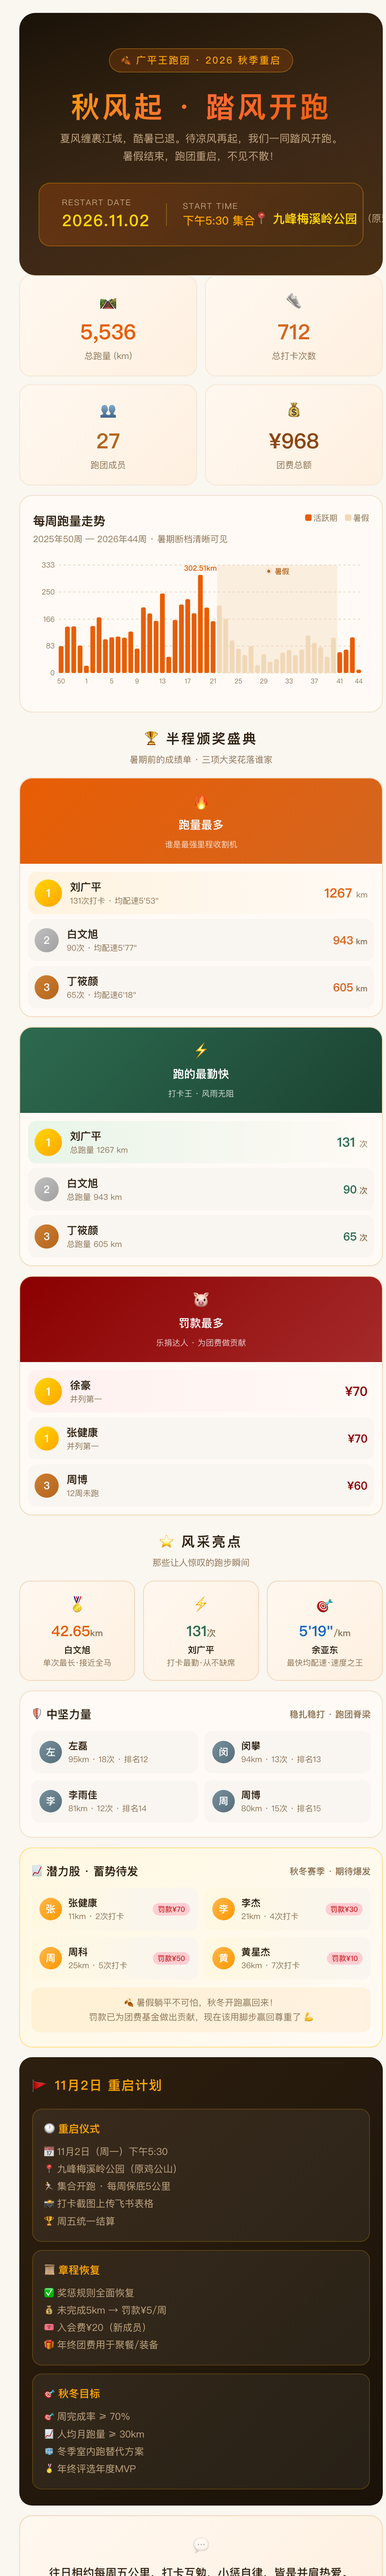
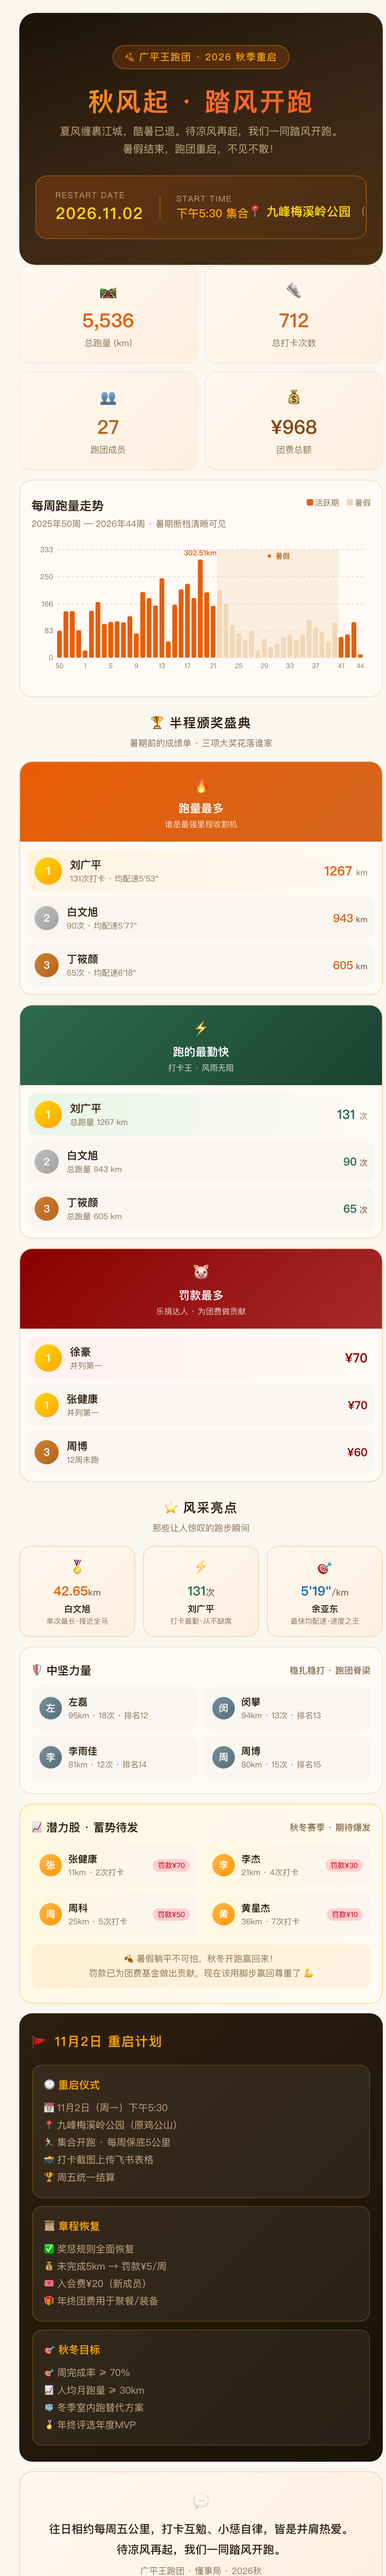
重构响应式布局：窄屏自动堆叠，防溢出防挤压

Changed region(s): [[0.0312, 0.0, 1.0, 1.0], [0.75, 0.5938, 0.9375, 0.7188], [0.4062, 0.5938, 0.4375, 0.625]]

diff --git a/index.html b/index.html
@@ -7,44 +7,44 @@
 <title>广平王跑团 · 秋风起 踏风开跑</title>
 <style>
 *{margin:0;padding:0;box-sizing:border-box;-webkit-box-sizing:border-box;}
-body{font-family:-apple-system,'PingFang SC','Noto Sans SC','Segoe UI',sans-serif;background:#faf6f0;color:#2d1f0f;line-height:1.5;-webkit-font-smoothing:antialiased;}
+body{font-family:-apple-system,'PingFang SC','Noto Sans SC','Segoe UI',sans-serif;background:#faf6f0;color:#2d1f0f;line-height:1.5;-webkit-font-smoothing:antialiased;overflow-x:hidden;}
 .container{max-width:480px;margin:0 auto;padding:16px 14px 32px;}
 
 /* Hero */
-.hero{position:relative;overflow:hidden;border-radius:20px;padding:44px 24px 36px;text-align:center;background:linear-gradient(160deg,#1a1208 0%,#2d1f0f 30%,#3d2817 60%,#4a2f12 100%);color:#fff8f0;}
-.hero-badge{display:inline-block;padding:5px 14px;border-radius:999px;background:rgba(232,93,4,0.2);border:1px solid rgba(255,182,39,0.3);margin-bottom:20px;font-size:12px;letter-spacing:1.5px;color:#FAA307;font-weight:500;}
-.hero h1{font-size:36px;font-weight:700;margin:0 0 6px;letter-spacing:3px;line-height:1.25;background:linear-gradient(135deg,#FAA307,#FF6B35,#E85D04);-webkit-background-clip:text;-webkit-text-fill-color:transparent;background-clip:text;color:#FAA307;}
+.hero{position:relative;overflow:hidden;border-radius:20px;padding:40px 20px 32px;text-align:center;background:linear-gradient(160deg,#1a1208 0%,#2d1f0f 30%,#3d2817 60%,#4a2f12 100%);color:#fff8f0;}
+.hero-badge{display:inline-block;padding:5px 14px;border-radius:999px;background:rgba(232,93,4,0.2);border:1px solid rgba(255,182,39,0.3);margin-bottom:20px;font-size:12px;letter-spacing:1px;color:#FAA307;font-weight:500;white-space:nowrap;}
+.hero h1{font-size:32px;font-weight:700;margin:0 0 6px;letter-spacing:2px;line-height:1.25;background:linear-gradient(135deg,#FAA307,#FF6B35,#E85D04);-webkit-background-clip:text;-webkit-text-fill-color:transparent;background-clip:text;color:#FAA307;}
 .hero p{font-size:13px;color:#c4a884;margin:0 0 22px;line-height:1.7;}
-.hero-info{display:inline-block;display:-webkit-inline-box;padding:16px 28px;border-radius:14px;background:linear-gradient(135deg,rgba(232,93,4,0.25),rgba(74,47,18,0.4));border:1px solid rgba(250,163,7,0.35);text-align:left;}
-.hero-info-row{display:flex;display:-webkit-flex;align-items:center;-webkit-align-items:center;gap:20px;}
+.hero-info{display:inline-block;display:-webkit-inline-box;padding:16px 24px;border-radius:14px;background:linear-gradient(135deg,rgba(232,93,4,0.25),rgba(74,47,18,0.4));border:1px solid rgba(250,163,7,0.35);text-align:left;max-width:100%;overflow:hidden;}
+.hero-info-row{display:flex;display:-webkit-flex;align-items:center;-webkit-align-items:center;gap:20px;flex-wrap:wrap;-webkit-flex-wrap:wrap;}
 .hero-info-item{text-align:left;}
-.hero-date-label{font-size:10px;color:#c4a884;letter-spacing:1px;}
-.hero-date-value{font-size:20px;font-weight:700;color:#FFD60A;letter-spacing:1px;}
+.hero-date-label{font-size:10px;color:#c4a884;letter-spacing:1px;white-space:nowrap;}
+.hero-date-value{font-size:20px;font-weight:700;color:#FFD60A;letter-spacing:1px;white-space:nowrap;}
 .hero-divider{width:1px;height:28px;background:rgba(255,214,10,0.3);}
-.hero-date-value2{font-size:14px;font-weight:500;color:#FAA307;}
-.hero-location-row{margin-top:10px;display:flex;display:-webkit-flex;align-items:center;-webkit-align-items:center;gap:6px;}
-.hero-location-icon{font-size:16px;}
+.hero-date-value2{font-size:14px;font-weight:500;color:#FAA307;white-space:nowrap;}
+.hero-location-row{margin-top:10px;display:flex;display:-webkit-flex;align-items:center;-webkit-align-items:center;gap:6px;flex-wrap:wrap;-webkit-flex-wrap:wrap;}
+.hero-location-icon{font-size:16px;flex-shrink:0;-webkit-flex-shrink:0;}
 .hero-location-name{font-size:15px;font-weight:600;color:#FFD60A;}
 .hero-location-sub{font-size:12px;color:#c4a884;}
 
 /* Stats */
 .stats{margin-top:12px;display:flex;display:-webkit-flex;flex-wrap:wrap;-webkit-flex-wrap:wrap;margin:-5px;}
-.stat-card{width:calc(50% - 10px);margin:5px;padding:16px 14px;border-radius:14px;text-align:center;background:linear-gradient(135deg,#fff8f0,#fef0e0);border:1px solid #f5e6d3;}
+.stat-card{width:calc(50% - 10px);margin:5px;padding:16px 10px;border-radius:14px;text-align:center;background:linear-gradient(135deg,#fff8f0,#fef0e0);border:1px solid #f5e6d3;overflow:hidden;}
 .stat-icon{font-size:20px;margin-bottom:4px;}
-.stat-value{font-size:26px;font-weight:700;font-variant-numeric:tabular-nums;}
+.stat-value{font-size:24px;font-weight:700;font-variant-numeric:tabular-nums;}
 .stat-label{font-size:11px;color:#8b7355;margin-top:2px;}
 
 /* Chart */
-.chart-section{margin-top:12px;padding:20px 16px 16px;border-radius:16px;background:#fffaf5;border:1px solid #f0e0cc;}
-.chart-header{display:flex;display:-webkit-flex;justify-content:space-between;-webkit-justify-content:space-between;margin-bottom:10px;}
+.chart-section{margin-top:12px;padding:20px 14px 16px;border-radius:16px;background:#fffaf5;border:1px solid #f0e0cc;overflow:hidden;}
+.chart-header{display:flex;display:-webkit-flex;flex-wrap:wrap;-webkit-flex-wrap:wrap;justify-content:space-between;-webkit-justify-content:space-between;align-items:flex-start;-webkit-align-items:flex-start;gap:6px;margin-bottom:10px;}
 .chart-title{font-size:15px;font-weight:600;color:#2d1f0f;}
 .chart-subtitle{font-size:11px;color:#8b7355;margin-top:3px;}
-.chart-legend{font-size:10px;color:#8b7355;}
+.chart-legend{font-size:10px;color:#8b7355;white-space:nowrap;}
 .legend-dot{display:inline-block;width:8px;height:8px;border-radius:2px;margin-right:2px;}
 
 /* Section Title */
 .section-title{text-align:center;margin:20px 0 14px;}
-.section-title h2{font-size:17px;font-weight:600;color:#2d1f0f;letter-spacing:2px;}
+.section-title h2{font-size:16px;font-weight:600;color:#2d1f0f;letter-spacing:1px;}
 .section-title p{font-size:11px;color:#8b7355;margin-top:5px;}
 
 /* Awards */
@@ -52,9 +52,9 @@ body{font-family:-apple-system,'PingFang SC','Noto Sans SC','Segoe UI',sans-seri
 .award-card{border-radius:16px;overflow:hidden;border:1px solid #f0d8b8;margin-bottom:12px;}
 .award-header{padding:14px;text-align:center;color:#fff;}
 .award-header h3{font-size:14px;font-weight:600;}
-.award-header span{font-size:10px;opacity:0.8;}
+.award-header span{font-size:10px;opacity:0.8;display:block;margin-top:2px;}
 .award-body{padding:10px;background:#fffaf5;}
-.winner-row{display:flex;display:-webkit-flex;align-items:center;-webkit-align-items:center;padding:9px 8px;border-radius:10px;margin-bottom:6px;}
+.winner-row{display:flex;display:-webkit-flex;align-items:center;-webkit-align-items:center;padding:9px 8px;border-radius:10px;margin-bottom:6px;overflow:hidden;}
 .winner-row:last-child{margin-bottom:0;}
 .winner-row.top{background:linear-gradient(90deg,#FFF3E0,transparent);}
 .winner-row.normal{background:#f9f5f0;}
@@ -62,38 +62,38 @@ body{font-family:-apple-system,'PingFang SC','Noto Sans SC','Segoe UI',sans-seri
 .medal.gold{width:34px;height:34px;font-size:14px;background:linear-gradient(135deg,#FFD700,#FFA500);}
 .medal.silver{background:linear-gradient(135deg,#C0C0C0,#A0A0A0);}
 .medal.bronze{background:linear-gradient(135deg,#CD7F32,#B5651D);}
-.winner-info{flex:1;-webkit-flex:1;min-width:0;}
-.winner-name{font-size:13px;font-weight:600;color:#2d1f0f;}
-.winner-detail{font-size:10px;color:#8b7355;}
-.winner-value{font-size:16px;font-weight:700;font-variant-numeric:tabular-nums;}
+.winner-info{flex:1;-webkit-flex:1;min-width:0;overflow:hidden;}
+.winner-name{font-size:13px;font-weight:600;color:#2d1f0f;white-space:nowrap;overflow:hidden;text-overflow:ellipsis;}
+.winner-detail{font-size:10px;color:#8b7355;white-space:nowrap;overflow:hidden;text-overflow:ellipsis;}
+.winner-value{font-size:16px;font-weight:700;font-variant-numeric:tabular-nums;white-space:nowrap;}
 .winner-unit{font-size:10px;color:#8b7355;}
 
 /* Highlights */
 .highlights{margin-top:12px;display:flex;display:-webkit-flex;flex-wrap:wrap;-webkit-flex-wrap:wrap;margin:-5px;}
-.highlight-card{width:calc(33.33% - 10px);margin:5px;padding:14px 8px;border-radius:14px;text-align:center;background:linear-gradient(135deg,#fff8f0,#fef0e0);border:1px solid #f0d8b8;}
-.highlight-icon{font-size:20px;margin-bottom:4px;}
-.highlight-value{font-size:18px;font-weight:700;font-variant-numeric:tabular-nums;}
+.highlight-card{width:calc(33.33% - 10px);margin:5px;padding:12px 6px;border-radius:14px;text-align:center;background:linear-gradient(135deg,#fff8f0,#fef0e0);border:1px solid #f0d8b8;overflow:hidden;}
+.highlight-icon{font-size:18px;margin-bottom:4px;}
+.highlight-value{font-size:16px;font-weight:700;font-variant-numeric:tabular-nums;}
 .highlight-name{font-size:11px;font-weight:600;color:#2d1f0f;margin-top:2px;}
-.highlight-label{font-size:10px;color:#8b7355;}
+.highlight-label{font-size:9px;color:#8b7355;}
 
 /* Middle & Potential */
-.mp-section{margin-top:12px;padding:18px 14px;border-radius:16px;background:#fffaf5;border:1px solid #f0e0cc;}
-.mp-title{display:flex;display:-webkit-flex;align-items:center;-webkit-align-items:center;margin-bottom:10px;font-size:14px;font-weight:600;color:#2d1f0f;}
+.mp-section{margin-top:12px;padding:18px 14px;border-radius:16px;background:#fffaf5;border:1px solid #f0e0cc;overflow:hidden;}
+.mp-title{display:flex;display:-webkit-flex;align-items:center;-webkit-align-items:center;margin-bottom:10px;font-size:14px;font-weight:600;color:#2d1f0f;flex-wrap:wrap;-webkit-flex-wrap:wrap;gap:4px;}
 .mp-subtitle{font-size:11px;color:#8b7355;margin-left:auto;}
 .mp-grid{display:flex;display:-webkit-flex;flex-wrap:wrap;-webkit-flex-wrap:wrap;margin:-4px;}
-.mp-card{width:calc(50% - 8px);margin:4px;display:flex;display:-webkit-flex;align-items:center;-webkit-align-items:center;padding:10px;border-radius:10px;background:#f9f5f0;}
+.mp-card{width:calc(50% - 8px);margin:4px;display:flex;display:-webkit-flex;align-items:center;-webkit-align-items:center;padding:10px;border-radius:10px;background:#f9f5f0;overflow:hidden;}
 .mp-card.potential{background:linear-gradient(90deg,#FFF8E1,#f9f5f0);}
 .mp-avatar{width:28px;height:28px;border-radius:50%;display:flex;display:-webkit-flex;align-items:center;-webkit-align-items:center;justify-content:center;-webkit-justify-content:center;font-size:12px;font-weight:700;color:#fff;flex-shrink:0;-webkit-flex-shrink:0;margin-right:8px;}
 .mp-avatar.mid{background:linear-gradient(135deg,#78909C,#546E7A);}
 .mp-avatar.pot{background:linear-gradient(135deg,#FFB74D,#FF9800);}
-.mp-info{flex:1;-webkit-flex:1;min-width:0;}
-.mp-name{font-size:12px;font-weight:600;color:#2d1f0f;}
-.mp-detail{font-size:10px;color:#8b7355;}
-.mp-tag{font-size:9px;padding:1px 6px;border-radius:999px;font-weight:500;background:#FFCDD2;color:#C62828;margin-left:4px;}
+.mp-info{flex:1;-webkit-flex:1;min-width:0;overflow:hidden;}
+.mp-name{font-size:12px;font-weight:600;color:#2d1f0f;white-space:nowrap;overflow:hidden;text-overflow:ellipsis;}
+.mp-detail{font-size:10px;color:#8b7355;white-space:nowrap;overflow:hidden;text-overflow:ellipsis;}
+.mp-tag{font-size:9px;padding:1px 6px;border-radius:999px;font-weight:500;background:#FFCDD2;color:#C62828;margin-left:4px;flex-shrink:0;-webkit-flex-shrink:0;white-space:nowrap;}
 .mp-note{margin-top:10px;padding:10px;border-radius:10px;background:rgba(255,152,0,0.08);text-align:center;font-size:11px;color:#8b7355;line-height:1.6;}
 
 /* Plan */
-.plan-section{margin-top:12px;padding:20px 16px;border-radius:16px;background:linear-gradient(135deg,#2d1f0f,#1a1208);color:#fff8f0;}
+.plan-section{margin-top:12px;padding:20px 16px;border-radius:16px;background:linear-gradient(135deg,#2d1f0f,#1a1208);color:#fff8f0;overflow:hidden;}
 .plan-header{display:flex;display:-webkit-flex;align-items:center;-webkit-align-items:center;margin-bottom:14px;}
 .plan-header h2{font-size:16px;font-weight:600;color:#FAA307;letter-spacing:1px;margin-left:8px;}
 .plan-card{padding:14px;border-radius:12px;background:rgba(255,255,255,0.06);border:1px solid rgba(250,163,7,0.2);margin-bottom:10px;}
@@ -102,9 +102,27 @@ body{font-family:-apple-system,'PingFang SC','Noto Sans SC','Segoe UI',sans-seri
 .plan-card-content{font-size:12px;color:#c4a884;line-height:1.8;}
 
 /* Footer */
-.footer{margin-top:12px;padding:22px 16px;border-radius:16px;background:linear-gradient(135deg,#fff8f0,#fef0e0);border:1px solid #f0d8b8;text-align:center;}
+.footer{margin-top:12px;padding:22px 16px;border-radius:16px;background:linear-gradient(135deg,#fff8f0,#fef0e0);border:1px solid #f0d8b8;text-align:center;overflow:hidden;}
 .footer p{font-size:14px;color:#2d1f0f;line-height:1.8;font-weight:500;}
 .footer-meta{font-size:11px;color:#8b7355;margin-top:6px;}
+
+/* Narrow screens: stack hero info vertically */
+@media(max-width:380px){
+  .hero{padding:32px 16px 28px;}
+  .hero h1{font-size:26px;letter-spacing:1px;}
+  .hero p{font-size:12px;}
+  .hero-info{padding:14px 18px;width:100%;}
+  .hero-info-row{flex-direction:column;-webkit-flex-direction:column;gap:8px;align-items:flex-start;-webkit-align-items:flex-start;}
+  .hero-divider{width:100%;height:1px;}
+  .hero-date-value{font-size:18px;}
+  .hero-date-value2{font-size:13px;}
+  .hero-location-name{font-size:14px;}
+  .stat-value{font-size:20px;}
+  .stat-card{padding:12px 8px;}
+  .section-title h2{font-size:15px;}
+  .highlight-value{font-size:14px;}
+  .highlight-card{padding:10px 4px;}
+}
 
 /* Wide screens */
 @media(min-width:600px){

diff --git a/广平王跑团-秋季重启画报.html b/广平王跑团-秋季重启画报.html
@@ -7,44 +7,44 @@
 <title>广平王跑团 · 秋风起 踏风开跑</title>
 <style>
 *{margin:0;padding:0;box-sizing:border-box;-webkit-box-sizing:border-box;}
-body{font-family:-apple-system,'PingFang SC','Noto Sans SC','Segoe UI',sans-serif;background:#faf6f0;color:#2d1f0f;line-height:1.5;-webkit-font-smoothing:antialiased;}
+body{font-family:-apple-system,'PingFang SC','Noto Sans SC','Segoe UI',sans-serif;background:#faf6f0;color:#2d1f0f;line-height:1.5;-webkit-font-smoothing:antialiased;overflow-x:hidden;}
 .container{max-width:480px;margin:0 auto;padding:16px 14px 32px;}
 
 /* Hero */
-.hero{position:relative;overflow:hidden;border-radius:20px;padding:44px 24px 36px;text-align:center;background:linear-gradient(160deg,#1a1208 0%,#2d1f0f 30%,#3d2817 60%,#4a2f12 100%);color:#fff8f0;}
-.hero-badge{display:inline-block;padding:5px 14px;border-radius:999px;background:rgba(232,93,4,0.2);border:1px solid rgba(255,182,39,0.3);margin-bottom:20px;font-size:12px;letter-spacing:1.5px;color:#FAA307;font-weight:500;}
-.hero h1{font-size:36px;font-weight:700;margin:0 0 6px;letter-spacing:3px;line-height:1.25;background:linear-gradient(135deg,#FAA307,#FF6B35,#E85D04);-webkit-background-clip:text;-webkit-text-fill-color:transparent;background-clip:text;color:#FAA307;}
+.hero{position:relative;overflow:hidden;border-radius:20px;padding:40px 20px 32px;text-align:center;background:linear-gradient(160deg,#1a1208 0%,#2d1f0f 30%,#3d2817 60%,#4a2f12 100%);color:#fff8f0;}
+.hero-badge{display:inline-block;padding:5px 14px;border-radius:999px;background:rgba(232,93,4,0.2);border:1px solid rgba(255,182,39,0.3);margin-bottom:20px;font-size:12px;letter-spacing:1px;color:#FAA307;font-weight:500;white-space:nowrap;}
+.hero h1{font-size:32px;font-weight:700;margin:0 0 6px;letter-spacing:2px;line-height:1.25;background:linear-gradient(135deg,#FAA307,#FF6B35,#E85D04);-webkit-background-clip:text;-webkit-text-fill-color:transparent;background-clip:text;color:#FAA307;}
 .hero p{font-size:13px;color:#c4a884;margin:0 0 22px;line-height:1.7;}
-.hero-info{display:inline-block;display:-webkit-inline-box;padding:16px 28px;border-radius:14px;background:linear-gradient(135deg,rgba(232,93,4,0.25),rgba(74,47,18,0.4));border:1px solid rgba(250,163,7,0.35);text-align:left;}
-.hero-info-row{display:flex;display:-webkit-flex;align-items:center;-webkit-align-items:center;gap:20px;}
+.hero-info{display:inline-block;display:-webkit-inline-box;padding:16px 24px;border-radius:14px;background:linear-gradient(135deg,rgba(232,93,4,0.25),rgba(74,47,18,0.4));border:1px solid rgba(250,163,7,0.35);text-align:left;max-width:100%;overflow:hidden;}
+.hero-info-row{display:flex;display:-webkit-flex;align-items:center;-webkit-align-items:center;gap:20px;flex-wrap:wrap;-webkit-flex-wrap:wrap;}
 .hero-info-item{text-align:left;}
-.hero-date-label{font-size:10px;color:#c4a884;letter-spacing:1px;}
-.hero-date-value{font-size:20px;font-weight:700;color:#FFD60A;letter-spacing:1px;}
+.hero-date-label{font-size:10px;color:#c4a884;letter-spacing:1px;white-space:nowrap;}
+.hero-date-value{font-size:20px;font-weight:700;color:#FFD60A;letter-spacing:1px;white-space:nowrap;}
 .hero-divider{width:1px;height:28px;background:rgba(255,214,10,0.3);}
-.hero-date-value2{font-size:14px;font-weight:500;color:#FAA307;}
-.hero-location-row{margin-top:10px;display:flex;display:-webkit-flex;align-items:center;-webkit-align-items:center;gap:6px;}
-.hero-location-icon{font-size:16px;}
+.hero-date-value2{font-size:14px;font-weight:500;color:#FAA307;white-space:nowrap;}
+.hero-location-row{margin-top:10px;display:flex;display:-webkit-flex;align-items:center;-webkit-align-items:center;gap:6px;flex-wrap:wrap;-webkit-flex-wrap:wrap;}
+.hero-location-icon{font-size:16px;flex-shrink:0;-webkit-flex-shrink:0;}
 .hero-location-name{font-size:15px;font-weight:600;color:#FFD60A;}
 .hero-location-sub{font-size:12px;color:#c4a884;}
 
 /* Stats */
 .stats{margin-top:12px;display:flex;display:-webkit-flex;flex-wrap:wrap;-webkit-flex-wrap:wrap;margin:-5px;}
-.stat-card{width:calc(50% - 10px);margin:5px;padding:16px 14px;border-radius:14px;text-align:center;background:linear-gradient(135deg,#fff8f0,#fef0e0);border:1px solid #f5e6d3;}
+.stat-card{width:calc(50% - 10px);margin:5px;padding:16px 10px;border-radius:14px;text-align:center;background:linear-gradient(135deg,#fff8f0,#fef0e0);border:1px solid #f5e6d3;overflow:hidden;}
 .stat-icon{font-size:20px;margin-bottom:4px;}
-.stat-value{font-size:26px;font-weight:700;font-variant-numeric:tabular-nums;}
+.stat-value{font-size:24px;font-weight:700;font-variant-numeric:tabular-nums;}
 .stat-label{font-size:11px;color:#8b7355;margin-top:2px;}
 
 /* Chart */
-.chart-section{margin-top:12px;padding:20px 16px 16px;border-radius:16px;background:#fffaf5;border:1px solid #f0e0cc;}
-.chart-header{display:flex;display:-webkit-flex;justify-content:space-between;-webkit-justify-content:space-between;margin-bottom:10px;}
+.chart-section{margin-top:12px;padding:20px 14px 16px;border-radius:16px;background:#fffaf5;border:1px solid #f0e0cc;overflow:hidden;}
+.chart-header{display:flex;display:-webkit-flex;flex-wrap:wrap;-webkit-flex-wrap:wrap;justify-content:space-between;-webkit-justify-content:space-between;align-items:flex-start;-webkit-align-items:flex-start;gap:6px;margin-bottom:10px;}
 .chart-title{font-size:15px;font-weight:600;color:#2d1f0f;}
 .chart-subtitle{font-size:11px;color:#8b7355;margin-top:3px;}
-.chart-legend{font-size:10px;color:#8b7355;}
+.chart-legend{font-size:10px;color:#8b7355;white-space:nowrap;}
 .legend-dot{display:inline-block;width:8px;height:8px;border-radius:2px;margin-right:2px;}
 
 /* Section Title */
 .section-title{text-align:center;margin:20px 0 14px;}
-.section-title h2{font-size:17px;font-weight:600;color:#2d1f0f;letter-spacing:2px;}
+.section-title h2{font-size:16px;font-weight:600;color:#2d1f0f;letter-spacing:1px;}
 .section-title p{font-size:11px;color:#8b7355;margin-top:5px;}
 
 /* Awards */
@@ -52,9 +52,9 @@ body{font-family:-apple-system,'PingFang SC','Noto Sans SC','Segoe UI',sans-seri
 .award-card{border-radius:16px;overflow:hidden;border:1px solid #f0d8b8;margin-bottom:12px;}
 .award-header{padding:14px;text-align:center;color:#fff;}
 .award-header h3{font-size:14px;font-weight:600;}
-.award-header span{font-size:10px;opacity:0.8;}
+.award-header span{font-size:10px;opacity:0.8;display:block;margin-top:2px;}
 .award-body{padding:10px;background:#fffaf5;}
-.winner-row{display:flex;display:-webkit-flex;align-items:center;-webkit-align-items:center;padding:9px 8px;border-radius:10px;margin-bottom:6px;}
+.winner-row{display:flex;display:-webkit-flex;align-items:center;-webkit-align-items:center;padding:9px 8px;border-radius:10px;margin-bottom:6px;overflow:hidden;}
 .winner-row:last-child{margin-bottom:0;}
 .winner-row.top{background:linear-gradient(90deg,#FFF3E0,transparent);}
 .winner-row.normal{background:#f9f5f0;}
@@ -62,38 +62,38 @@ body{font-family:-apple-system,'PingFang SC','Noto Sans SC','Segoe UI',sans-seri
 .medal.gold{width:34px;height:34px;font-size:14px;background:linear-gradient(135deg,#FFD700,#FFA500);}
 .medal.silver{background:linear-gradient(135deg,#C0C0C0,#A0A0A0);}
 .medal.bronze{background:linear-gradient(135deg,#CD7F32,#B5651D);}
-.winner-info{flex:1;-webkit-flex:1;min-width:0;}
-.winner-name{font-size:13px;font-weight:600;color:#2d1f0f;}
-.winner-detail{font-size:10px;color:#8b7355;}
-.winner-value{font-size:16px;font-weight:700;font-variant-numeric:tabular-nums;}
+.winner-info{flex:1;-webkit-flex:1;min-width:0;overflow:hidden;}
+.winner-name{font-size:13px;font-weight:600;color:#2d1f0f;white-space:nowrap;overflow:hidden;text-overflow:ellipsis;}
+.winner-detail{font-size:10px;color:#8b7355;white-space:nowrap;overflow:hidden;text-overflow:ellipsis;}
+.winner-value{font-size:16px;font-weight:700;font-variant-numeric:tabular-nums;white-space:nowrap;}
 .winner-unit{font-size:10px;color:#8b7355;}
 
 /* Highlights */
 .highlights{margin-top:12px;display:flex;display:-webkit-flex;flex-wrap:wrap;-webkit-flex-wrap:wrap;margin:-5px;}
-.highlight-card{width:calc(33.33% - 10px);margin:5px;padding:14px 8px;border-radius:14px;text-align:center;background:linear-gradient(135deg,#fff8f0,#fef0e0);border:1px solid #f0d8b8;}
-.highlight-icon{font-size:20px;margin-bottom:4px;}
-.highlight-value{font-size:18px;font-weight:700;font-variant-numeric:tabular-nums;}
+.highlight-card{width:calc(33.33% - 10px);margin:5px;padding:12px 6px;border-radius:14px;text-align:center;background:linear-gradient(135deg,#fff8f0,#fef0e0);border:1px solid #f0d8b8;overflow:hidden;}
+.highlight-icon{font-size:18px;margin-bottom:4px;}
+.highlight-value{font-size:16px;font-weight:700;font-variant-numeric:tabular-nums;}
 .highlight-name{font-size:11px;font-weight:600;color:#2d1f0f;margin-top:2px;}
-.highlight-label{font-size:10px;color:#8b7355;}
+.highlight-label{font-size:9px;color:#8b7355;}
 
 /* Middle & Potential */
-.mp-section{margin-top:12px;padding:18px 14px;border-radius:16px;background:#fffaf5;border:1px solid #f0e0cc;}
-.mp-title{display:flex;display:-webkit-flex;align-items:center;-webkit-align-items:center;margin-bottom:10px;font-size:14px;font-weight:600;color:#2d1f0f;}
+.mp-section{margin-top:12px;padding:18px 14px;border-radius:16px;background:#fffaf5;border:1px solid #f0e0cc;overflow:hidden;}
+.mp-title{display:flex;display:-webkit-flex;align-items:center;-webkit-align-items:center;margin-bottom:10px;font-size:14px;font-weight:600;color:#2d1f0f;flex-wrap:wrap;-webkit-flex-wrap:wrap;gap:4px;}
 .mp-subtitle{font-size:11px;color:#8b7355;margin-left:auto;}
 .mp-grid{display:flex;display:-webkit-flex;flex-wrap:wrap;-webkit-flex-wrap:wrap;margin:-4px;}
-.mp-card{width:calc(50% - 8px);margin:4px;display:flex;display:-webkit-flex;align-items:center;-webkit-align-items:center;padding:10px;border-radius:10px;background:#f9f5f0;}
+.mp-card{width:calc(50% - 8px);margin:4px;display:flex;display:-webkit-flex;align-items:center;-webkit-align-items:center;padding:10px;border-radius:10px;background:#f9f5f0;overflow:hidden;}
 .mp-card.potential{background:linear-gradient(90deg,#FFF8E1,#f9f5f0);}
 .mp-avatar{width:28px;height:28px;border-radius:50%;display:flex;display:-webkit-flex;align-items:center;-webkit-align-items:center;justify-content:center;-webkit-justify-content:center;font-size:12px;font-weight:700;color:#fff;flex-shrink:0;-webkit-flex-shrink:0;margin-right:8px;}
 .mp-avatar.mid{background:linear-gradient(135deg,#78909C,#546E7A);}
 .mp-avatar.pot{background:linear-gradient(135deg,#FFB74D,#FF9800);}
-.mp-info{flex:1;-webkit-flex:1;min-width:0;}
-.mp-name{font-size:12px;font-weight:600;color:#2d1f0f;}
-.mp-detail{font-size:10px;color:#8b7355;}
-.mp-tag{font-size:9px;padding:1px 6px;border-radius:999px;font-weight:500;background:#FFCDD2;color:#C62828;margin-left:4px;}
+.mp-info{flex:1;-webkit-flex:1;min-width:0;overflow:hidden;}
+.mp-name{font-size:12px;font-weight:600;color:#2d1f0f;white-space:nowrap;overflow:hidden;text-overflow:ellipsis;}
+.mp-detail{font-size:10px;color:#8b7355;white-space:nowrap;overflow:hidden;text-overflow:ellipsis;}
+.mp-tag{font-size:9px;padding:1px 6px;border-radius:999px;font-weight:500;background:#FFCDD2;color:#C62828;margin-left:4px;flex-shrink:0;-webkit-flex-shrink:0;white-space:nowrap;}
 .mp-note{margin-top:10px;padding:10px;border-radius:10px;background:rgba(255,152,0,0.08);text-align:center;font-size:11px;color:#8b7355;line-height:1.6;}
 
 /* Plan */
-.plan-section{margin-top:12px;padding:20px 16px;border-radius:16px;background:linear-gradient(135deg,#2d1f0f,#1a1208);color:#fff8f0;}
+.plan-section{margin-top:12px;padding:20px 16px;border-radius:16px;background:linear-gradient(135deg,#2d1f0f,#1a1208);color:#fff8f0;overflow:hidden;}
 .plan-header{display:flex;display:-webkit-flex;align-items:center;-webkit-align-items:center;margin-bottom:14px;}
 .plan-header h2{font-size:16px;font-weight:600;color:#FAA307;letter-spacing:1px;margin-left:8px;}
 .plan-card{padding:14px;border-radius:12px;background:rgba(255,255,255,0.06);border:1px solid rgba(250,163,7,0.2);margin-bottom:10px;}
@@ -102,9 +102,27 @@ body{font-family:-apple-system,'PingFang SC','Noto Sans SC','Segoe UI',sans-seri
 .plan-card-content{font-size:12px;color:#c4a884;line-height:1.8;}
 
 /* Footer */
-.footer{margin-top:12px;padding:22px 16px;border-radius:16px;background:linear-gradient(135deg,#fff8f0,#fef0e0);border:1px solid #f0d8b8;text-align:center;}
+.footer{margin-top:12px;padding:22px 16px;border-radius:16px;background:linear-gradient(135deg,#fff8f0,#fef0e0);border:1px solid #f0d8b8;text-align:center;overflow:hidden;}
 .footer p{font-size:14px;color:#2d1f0f;line-height:1.8;font-weight:500;}
 .footer-meta{font-size:11px;color:#8b7355;margin-top:6px;}
+
+/* Narrow screens: stack hero info vertically */
+@media(max-width:380px){
+  .hero{padding:32px 16px 28px;}
+  .hero h1{font-size:26px;letter-spacing:1px;}
+  .hero p{font-size:12px;}
+  .hero-info{padding:14px 18px;width:100%;}
+  .hero-info-row{flex-direction:column;-webkit-flex-direction:column;gap:8px;align-items:flex-start;-webkit-align-items:flex-start;}
+  .hero-divider{width:100%;height:1px;}
+  .hero-date-value{font-size:18px;}
+  .hero-date-value2{font-size:13px;}
+  .hero-location-name{font-size:14px;}
+  .stat-value{font-size:20px;}
+  .stat-card{padding:12px 8px;}
+  .section-title h2{font-size:15px;}
+  .highlight-value{font-size:14px;}
+  .highlight-card{padding:10px 4px;}
+}
 
 /* Wide screens */
 @media(min-width:600px){
